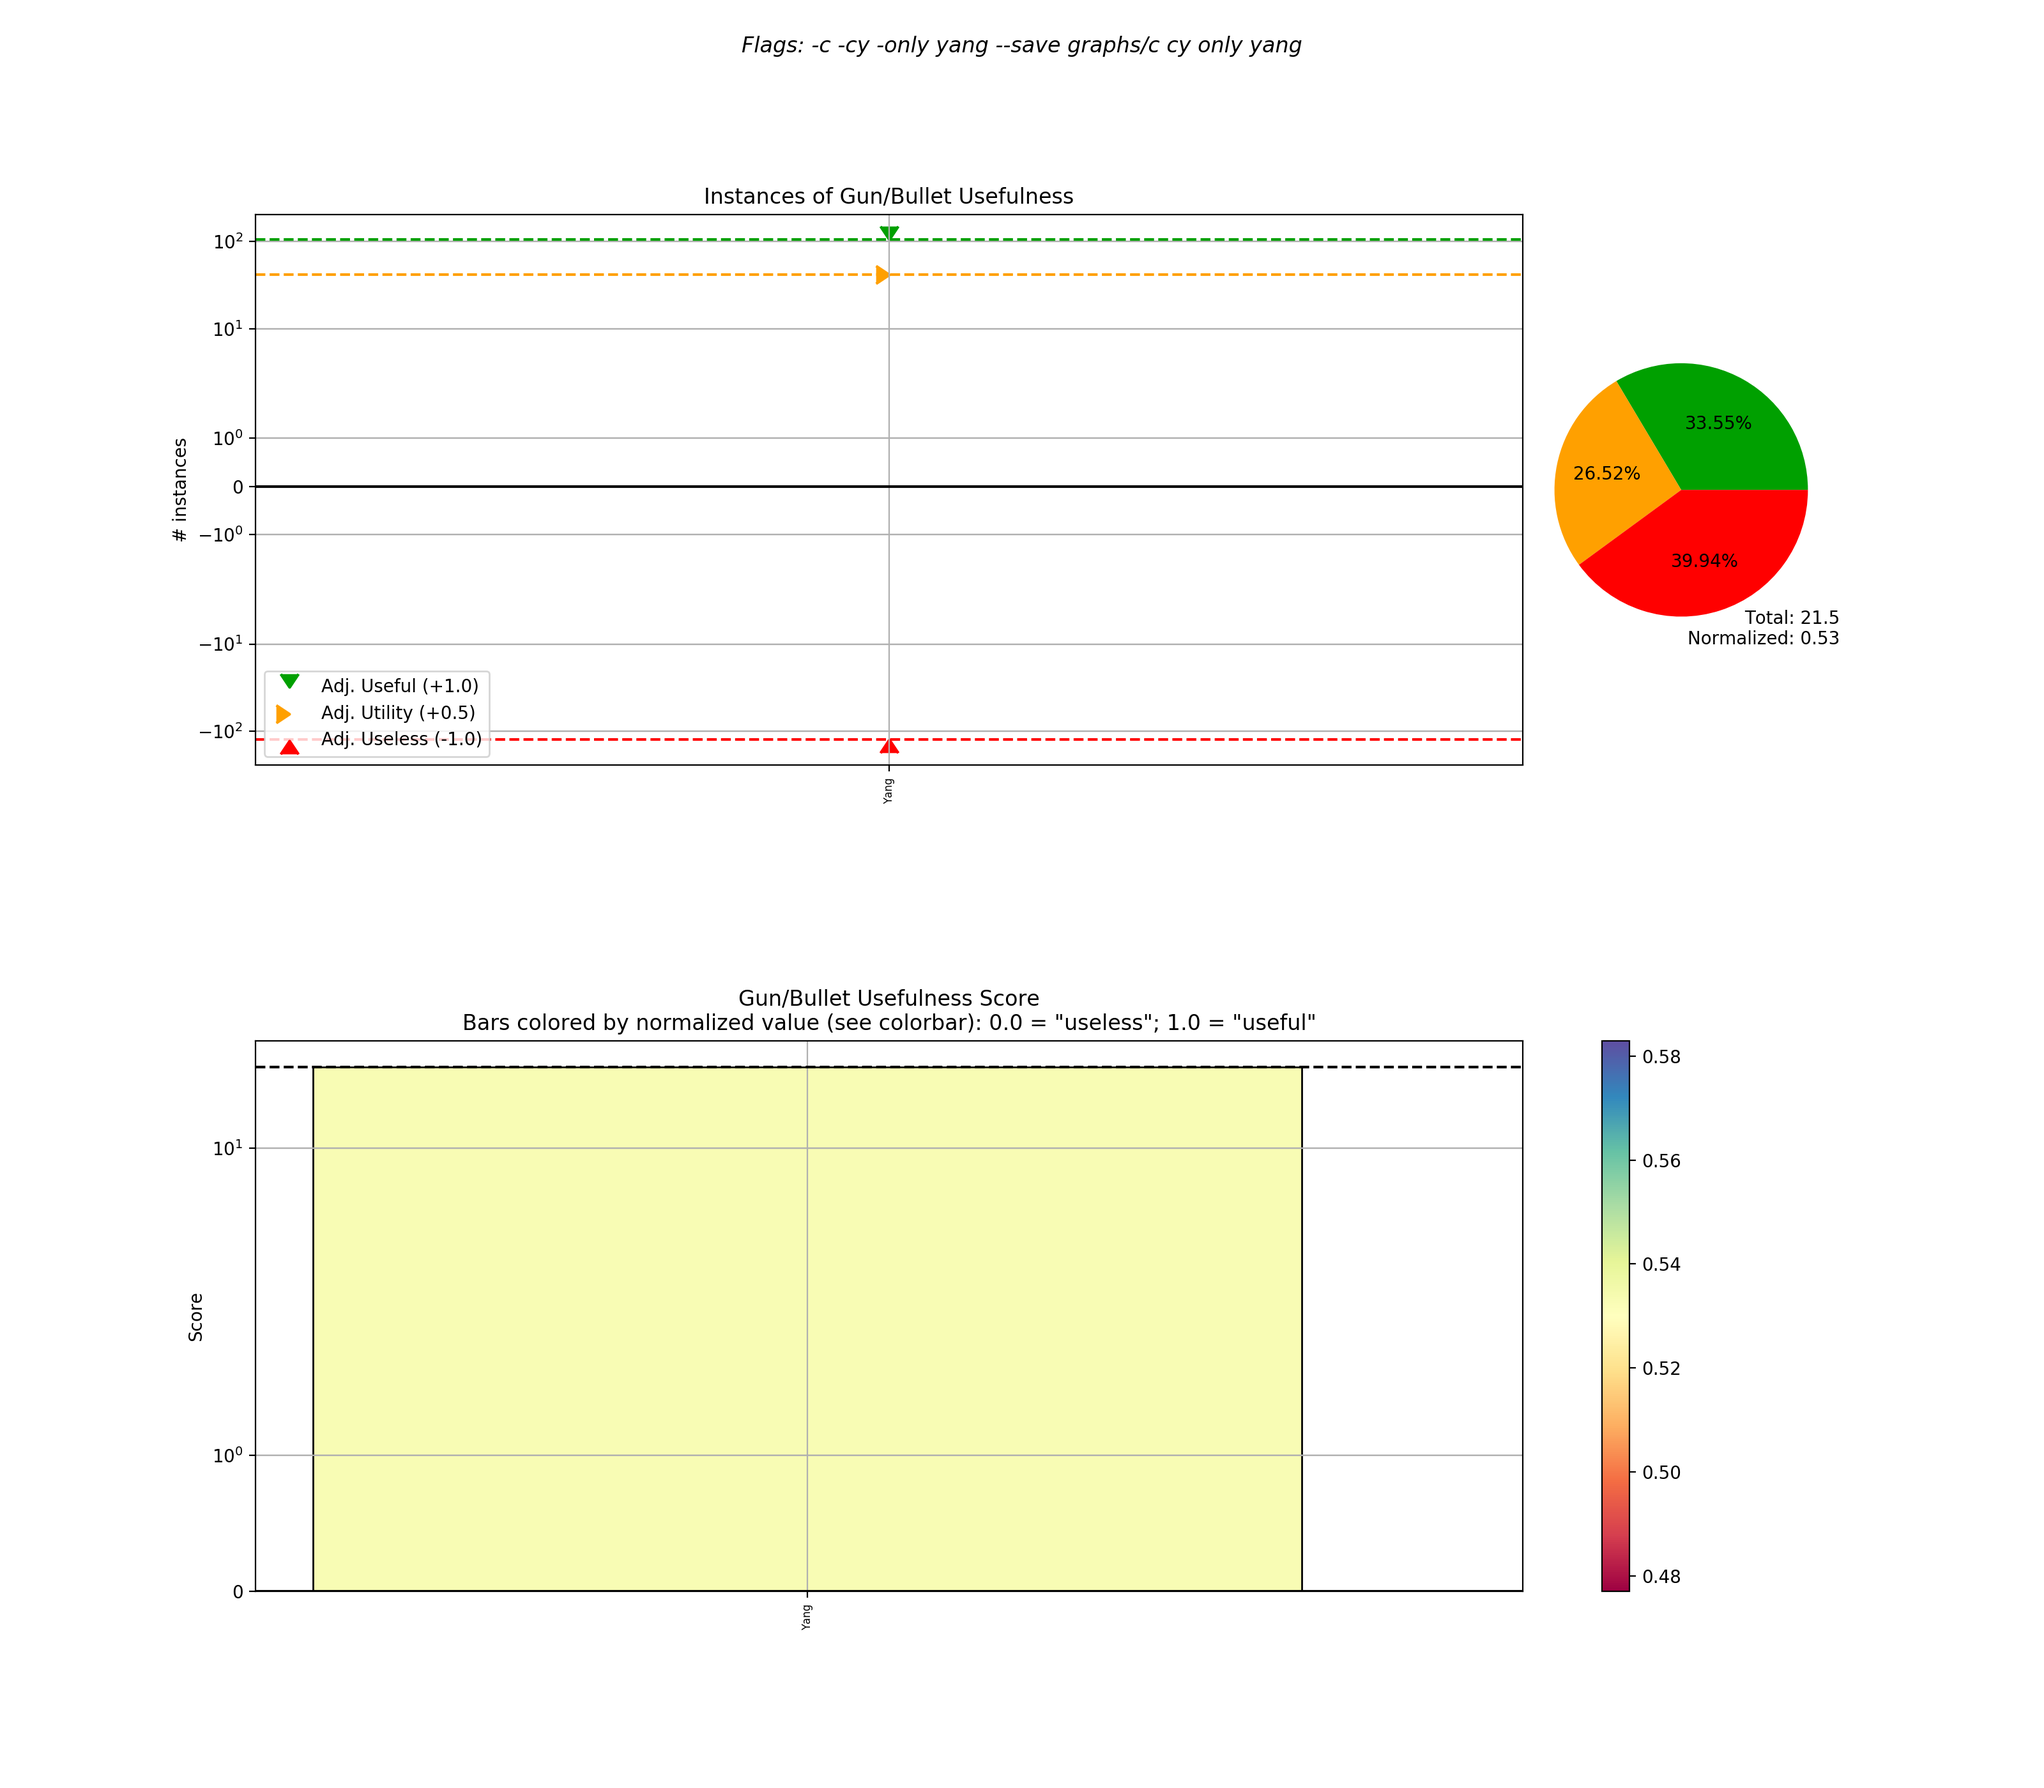
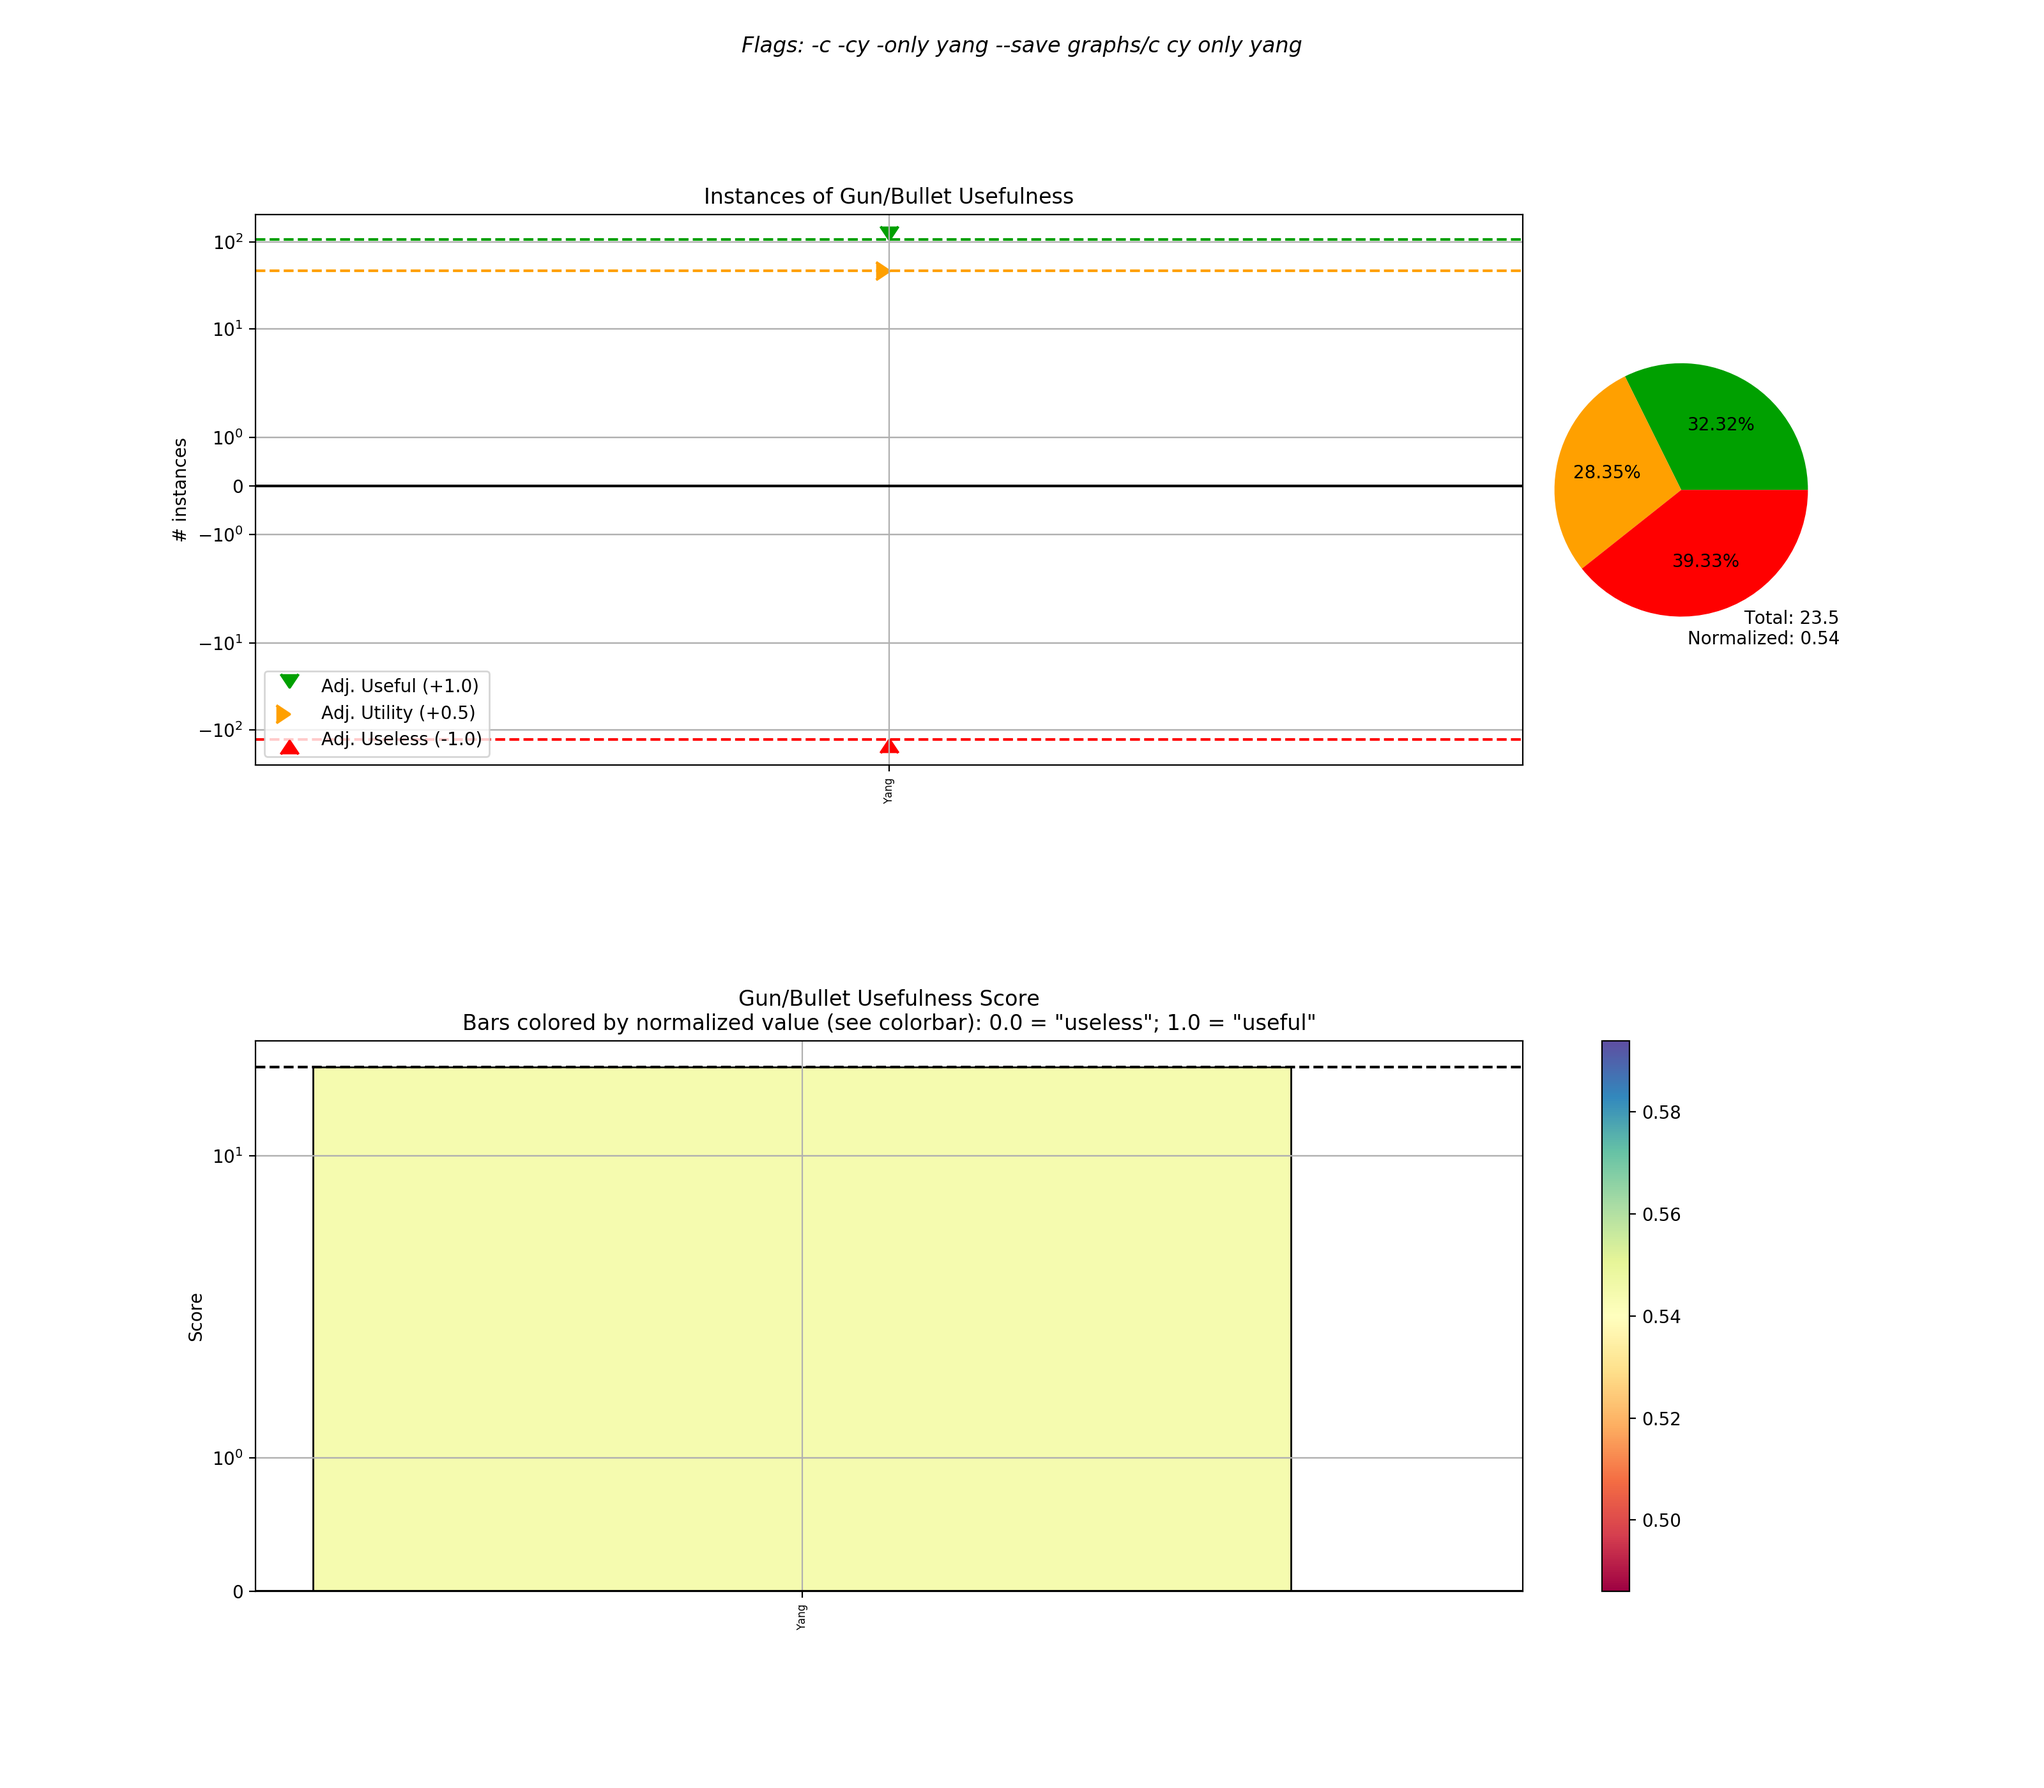
update to V6C5

Changed region(s): [[0.625, 0.5904, 0.6562, 0.9011], [0.7812, 0.2175, 0.8125, 0.2486]]

diff --git a/alsoagun.py b/alsoagun.py
@@ -2,7 +2,7 @@ import argparse
 import collections
 import colorsys
 import json
-import matplotlib as mpl
+import matplotlib as mpl; mpl.use('agg')
 import matplotlib.pyplot as plt
 from matplotlib import cm
 import numpy as np

diff --git a/README.md b/README.md
@@ -1,13 +1,15 @@
 # ALSO A GUN
 
-## Most Recent Data Update: Volume 6 Trailer
-V6C1 has not been mined yet, but the V6 intro has been.
+## Most Recent Data Update: Volume 6 Chapter 5 "The Coming Storm"
+Note: V6C4 and V6C5 do not include any bullets fired.
 
 So... have you noticed that so many weapons in the RWBY universe are guns, even when that doesn't make sense, like Crescent Rose? Well, how good are they? I've counted *every* bullet from *every* episode, and put them in one of three categories:
 
 * useful: The bullet actually is useful in killing something.
 * utility: The bullet serves some utility, such as creating a distraction or providing movement options using the gun's recoil.
 * useless: The bullet doesn't do anything (misses are also in this category).
+
+Note that small non-bullet projectiles, such as Cinder's Dust fragments or Weiss's ice shards are not included. Magic (such as Amber's leaf-ice shards or the magic in the V6C3 flashback) is also not included. By default, arrows are not counted, though they are in the data (see the `-b` flag, below)
 
 ## ./data
 
